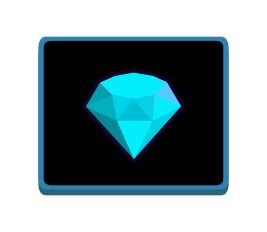
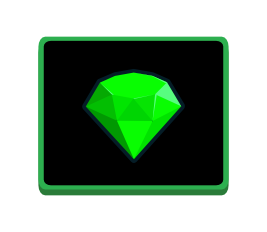
retorno a cor vermelho e diamantes verdes

Changed region(s): [[0.1199, 0.1509, 0.8689, 0.8448], [0.2996, 0.3017, 0.6891, 0.694]]

diff --git a/css/post-7.css b/css/post-7.css
@@ -1,1 +1,1 @@
-.elementor-kit-7{--e-global-color-primary:#0013D5;--e-global-color-secondary:#54595F;--e-global-color-text:#7A7A7A;--e-global-color-accent:#61CE70;--e-global-typography-primary-font-family:"Roboto";--e-global-typography-primary-font-weight:600;--e-global-typography-secondary-font-family:"Roboto Slab";--e-global-typography-secondary-font-weight:400;--e-global-typography-text-font-family:"Roboto";--e-global-typography-text-font-weight:400;--e-global-typography-accent-font-family:"Roboto";--e-global-typography-accent-font-weight:500;}.elementor-section.elementor-section-boxed > .elementor-container{max-width:1140px;}.e-con{--container-max-width:1140px;}.elementor-widget:not(:last-child){margin-bottom:20px;}.elementor-element{--widgets-spacing:20px;}{}h1.entry-title{display:var(--page-title-display);}.elementor-kit-7 e-page-transition{background-color:#FFBC7D;}@media(max-width:1024px){.elementor-section.elementor-section-boxed > .elementor-container{max-width:1024px;}.e-con{--container-max-width:1024px;}}@media(max-width:767px){.elementor-section.elementor-section-boxed > .elementor-container{max-width:767px;}.e-con{--container-max-width:767px;}}
+.elementor-kit-7{--e-global-color-primary:#fd0202;--e-global-color-secondary:#54595F;--e-global-color-text:#7A7A7A;--e-global-color-accent:#61CE70;--e-global-typography-primary-font-family:"Roboto";--e-global-typography-primary-font-weight:600;--e-global-typography-secondary-font-family:"Roboto Slab";--e-global-typography-secondary-font-weight:400;--e-global-typography-text-font-family:"Roboto";--e-global-typography-text-font-weight:400;--e-global-typography-accent-font-family:"Roboto";--e-global-typography-accent-font-weight:500;}.elementor-section.elementor-section-boxed > .elementor-container{max-width:1140px;}.e-con{--container-max-width:1140px;}.elementor-widget:not(:last-child){margin-bottom:20px;}.elementor-element{--widgets-spacing:20px;}{}h1.entry-title{display:var(--page-title-display);}.elementor-kit-7 e-page-transition{background-color:#FFBC7D;}@media(max-width:1024px){.elementor-section.elementor-section-boxed > .elementor-container{max-width:1024px;}.e-con{--container-max-width:1024px;}}@media(max-width:767px){.elementor-section.elementor-section-boxed > .elementor-container{max-width:767px;}.e-con{--container-max-width:767px;}}

diff --git a/css/post-5.css b/css/post-5.css
@@ -1,1 +1,1 @@
-.elementor-kit-5{--e-global-color-primary:#0013D5;--e-global-color-secondary:#54595F;--e-global-color-text:#7A7A7A;--e-global-color-accent:#61CE70;--e-global-typography-primary-font-family:"Roboto";--e-global-typography-primary-font-weight:600;--e-global-typography-secondary-font-family:"Roboto Slab";--e-global-typography-secondary-font-weight:400;--e-global-typography-text-font-family:"Roboto";--e-global-typography-text-font-weight:400;--e-global-typography-accent-font-family:"Roboto";--e-global-typography-accent-font-weight:500;}.elementor-section.elementor-section-boxed > .elementor-container{max-width:1140px;}.e-con{--container-max-width:1140px;}.elementor-widget:not(:last-child){margin-bottom:20px;}.elementor-element{--widgets-spacing:20px;}{}h1.entry-title{display:var(--page-title-display);}@media(max-width:1024px){.elementor-section.elementor-section-boxed > .elementor-container{max-width:1024px;}.e-con{--container-max-width:1024px;}}@media(max-width:767px){.elementor-section.elementor-section-boxed > .elementor-container{max-width:767px;}.e-con{--container-max-width:767px;}}
+.elementor-kit-5{--e-global-color-primary:#fd0202;--e-global-color-secondary:#54595F;--e-global-color-text:#7A7A7A;--e-global-color-accent:#61CE70;--e-global-typography-primary-font-family:"Roboto";--e-global-typography-primary-font-weight:600;--e-global-typography-secondary-font-family:"Roboto Slab";--e-global-typography-secondary-font-weight:400;--e-global-typography-text-font-family:"Roboto";--e-global-typography-text-font-weight:400;--e-global-typography-accent-font-family:"Roboto";--e-global-typography-accent-font-weight:500;}.elementor-section.elementor-section-boxed > .elementor-container{max-width:1140px;}.e-con{--container-max-width:1140px;}.elementor-widget:not(:last-child){margin-bottom:20px;}.elementor-element{--widgets-spacing:20px;}{}h1.entry-title{display:var(--page-title-display);}@media(max-width:1024px){.elementor-section.elementor-section-boxed > .elementor-container{max-width:1024px;}.e-con{--container-max-width:1024px;}}@media(max-width:767px){.elementor-section.elementor-section-boxed > .elementor-container{max-width:767px;}.e-con{--container-max-width:767px;}}

diff --git a/index.html b/index.html
@@ -2169,7 +2169,7 @@
 
                                                                         #site-container {
                                                                             display: none;
-                                                                            box-shadow: 0 0 8px 5px #0013D5;
+                                                                            box-shadow: 0 0 8px 5px #fd0202;
                                                                         }
 
                                                                         #site-container.site-open {
@@ -2264,7 +2264,7 @@
                                                                             font-size: 24px;
                                                                             border: none;
                                                                             border-radius: 5px;
-                                                                            background-color: #0013D5;
+                                                                            background-color: #fd0202;
                                                                             color: white;
                                                                             cursor: pointer;
                                                                             transition: background-color 0.3s ease, transform 0.3s ease;
